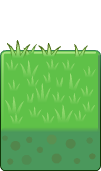
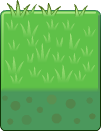
Formatted gameboard with custom image

diff --git a/index.html b/index.html
@@ -9,48 +9,7 @@
 
 <body>
   <div class="gameboard">
-    <div>
-      <img src="images/water-block.png" alt="waterblock">
-      <img src="images/water-block.png" alt="waterblock">
-      <img src="images/water-block.png" alt="waterblock">
-      <img src="images/water-block.png" alt="waterblock">
-      <img src="images/water-block.png" alt="waterblock">
-    </div>
-    <div>
-      <img src="images/stone-block.png" alt="stoneblock">
-      <img src="images/stone-block.png" alt="stoneblock">
-      <img src="images/stone-block.png" alt="stoneblock">
-      <img src="images/stone-block.png" alt="stoneblock">
-      <img src="images/stone-block.png" alt="stoneblock">
-    </div>
-    <div>
-      <img src="images/stone-block.png" alt="stoneblock">
-      <img src="images/stone-block.png" alt="stoneblock">
-      <img src="images/stone-block.png" alt="stoneblock">
-      <img src="images/stone-block.png" alt="stoneblock">
-      <img src="images/stone-block.png" alt="stoneblock">
-    </div>
-    <div>
-      <img src="images/stone-block.png" alt="stoneblock">
-      <img src="images/stone-block.png" alt="stoneblock">
-      <img src="images/stone-block.png" alt="stoneblock">
-      <img src="images/stone-block.png" alt="stoneblock">
-      <img src="images/stone-block.png" alt="stoneblock">
-    </div>
-    <div>
-      <img src="images/grass-block.png" alt="grassblock">
-      <img src="images/grass-block.png" alt="grassblock">
-      <img src="images/grass-block.png" alt="grassblock">
-      <img src="images/grass-block.png" alt="grassblock">
-      <img src="images/grass-block.png" alt="grassblock">
-    </div>
-    <div>
-      <img src="images/grass-block.png" alt="grassblock">
-      <img src="images/grass-block.png" alt="grassblock">
-      <img src="images/grass-block.png" alt="grassblock">
-      <img src="images/grass-block.png" alt="grassblock">
-      <img src="images/grass-block.png" alt="grassblock">
-    </div>
+    <img src="images/gameboard.png" alt="gameboard" width=505>
   </div>
   <script src="js/resources.js"></script>
   <script src="js/app.js"></script>

diff --git a/css/style.css b/css/style.css
@@ -1,3 +1,12 @@
 body {
-    text-align: center;
+  ;
+}
+
+img {
+  float: left;
+}
+
+.gameboard {
+  margin: auto;
+  width: 505px;
 }
